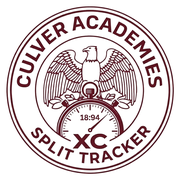
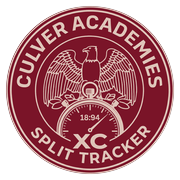
Add files via upload

diff --git a/sw.js b/sw.js
@@ -1,5 +1,5 @@
-const CACHE='rst-v23';
-const FILES=['./','index.html','firebase-config.js','qrgen.js','jsQR.js','THIRD-PARTY-LICENSES.txt','manifest.webmanifest','icon-192.png','icon-512.png','icon-512-maskable.png','apple-touch-icon.png','apple-touch-icon-dark.png'];
+const CACHE='rst-v24';
+const FILES=['./','index.html','firebase-config.js','qrgen.js','jsQR.js','THIRD-PARTY-LICENSES.txt','manifest.webmanifest','icon-192.png','icon-512.png','icon-512-maskable.png','apple-touch-icon.png'];
 // Firebase's scripts live on Google's servers. They're saved here too so live sync still starts when the phone has no signal.
 // Keep the version in step with FBV in index.html.
 const EXTRA=['https://www.gstatic.com/firebasejs/10.14.1/firebase-app-compat.js','https://www.gstatic.com/firebasejs/10.14.1/firebase-database-compat.js'];

diff --git a/index.html b/index.html
@@ -4,7 +4,6 @@
 <title>Race Split Tracker</title>
 <link rel="manifest" href="manifest.webmanifest">
 <link rel="apple-touch-icon" href="apple-touch-icon.png">
-<script>(function(){try{var l=document.querySelector('link[rel="apple-touch-icon"]'),q=matchMedia('(prefers-color-scheme: dark)');function f(){l.href=q.matches?'apple-touch-icon-dark.png':'apple-touch-icon.png'}f();q.addEventListener?q.addEventListener('change',f):q.addListener(f)}catch(e){}})();</script>
 <meta name="apple-mobile-web-app-capable" content="yes">
 <meta name="mobile-web-app-capable" content="yes">
 <meta name="apple-mobile-web-app-title" content="Splits">
